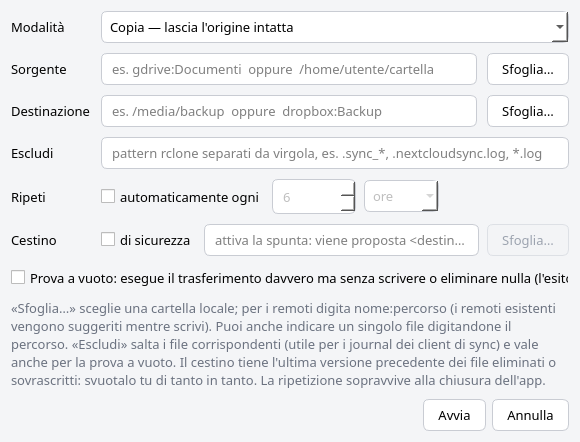
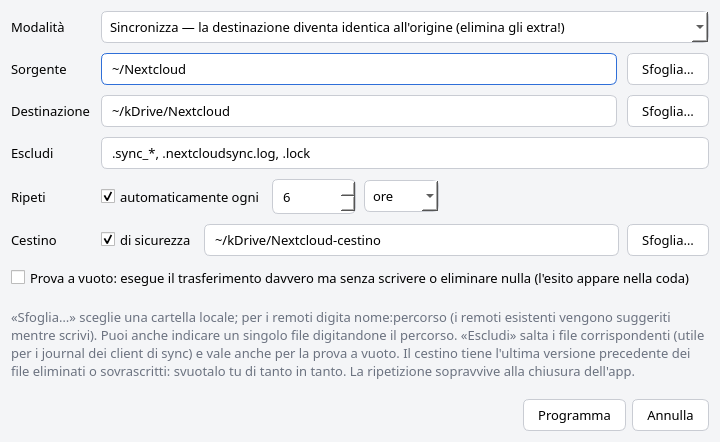
Screenshot aggiornati, email del maintainer e piccole correzioni UI
- Screenshot rigenerati con l'interfaccia attuale (menu File, pulsante
  Cestino, riga programmata, prova a vuoto) e aggiunto al README quello
  del dialog «Nuovo trasferimento».
- Maintainer predefinito del pacchetto: gradia@disroot.org.
- Versione di rclone nella barra di stato mostrata come «v1.75.2»
  invece di «vv1.75.2».
- Righe «Prova» in coda: ora mostrano modalità, sorgente e destinazione.
- Form «Nuovo remote»: le etichette del tipo precedente spariscono subito
  al cambio di tipo; niente più barra orizzontale per menu troppo larghi.
- Dialog «Nuovo trasferimento» più largo: i testi non vengono troncati.

diff --git a/clonaut/ui/remote_dialog.py b/clonaut/ui/remote_dialog.py
@@ -104,6 +104,8 @@ class RemoteDialog(QtWidgets.QDialog):
         self.scroll.setWidgetResizable(True)
         self.scroll.setFrameShape(QtWidgets.QFrame.Shape.NoFrame)
         self._form_host = QtWidgets.QWidget()
+        self._form_host.setObjectName("formHost")
+        self._form_host.setStyleSheet("#formHost { background: white; }")
         self._form_layout = QtWidgets.QFormLayout(self._form_host)
         self._form_layout.setFieldGrowthPolicy(
             QtWidgets.QFormLayout.FieldGrowthPolicy.AllNonFixedFieldsGrow)
@@ -156,6 +158,7 @@ class RemoteDialog(QtWidgets.QDialog):
         while self._form_layout.count():
             item = self._form_layout.takeAt(0)
             if widget := item.widget():
+                widget.hide()          # sparisce subito, non al prossimo giro di eventi
                 widget.deleteLater()
         self._fields.clear()
         self._adv_rows.clear()
@@ -222,6 +225,11 @@ class RemoteDialog(QtWidgets.QDialog):
         examples = [e for e in (opt.get("Examples") or []) if e.get("Value")]
         if examples:
             editor: QtWidgets.QWidget = QtWidgets.QComboBox()
+            # le descrizioni degli esempi sono lunghe: senza limite il form
+            # si allarga oltre la finestra (barra di scorrimento orizzontale)
+            editor.setSizeAdjustPolicy(
+                QtWidgets.QComboBox.SizeAdjustPolicy.AdjustToMinimumContentsLengthWithIcon)
+            editor.setMinimumContentsLength(24)
             editor.addItem("(predefinito)", "")
             for ex in examples:
                 help_txt = strip_html(str(ex.get("Help", ""))).split("\n")[0]

diff --git a/clonaut/ui/transfers_tab.py b/clonaut/ui/transfers_tab.py
@@ -161,7 +161,7 @@ class TransfersTab(QtWidgets.QWidget):
         """Prova a vuoto sul backend dedicato (--dry-run), con riga in coda."""
         self._dry_seq += 1
         key = f"dry-{self._dry_seq}"
-        self._new_dry_row(key, backup_dir)
+        self._new_dry_row(key, mode, src, dst, backup_dir)
         try:
             api = self.ctx.ensure_dry_backend()
         except Exception as exc:  # noqa: BLE001 — mostra l'errore sulla riga
@@ -178,10 +178,14 @@ class TransfersTab(QtWidgets.QWidget):
         """Prove a vuoto ancora in corso (da fermare all'uscita)."""
         return list(self._dry_workers.values())
 
-    def _new_dry_row(self, key: str, backup_dir: str | None = None) -> None:
+    def _new_dry_row(self, key: str, mode: str, src: str, dst: str,
+                     backup_dir: str | None = None) -> None:
         item = QtWidgets.QTreeWidgetItem()
         item.setText(0, "—")
-        item.setText(1, "Prova")
+        item.setText(1, f"Prova · {_MODE_LABEL.get(mode, mode)}")
+        for col, path in ((2, src), (3, dst)):
+            item.setText(col, path)
+            item.setToolTip(col, path)
         item.setText(4, "🧪 Prova in corso…")
         item.setForeground(4, _BLUE)
         item.setToolTip(4, "La prova è un trasferimento vero senza scritture: "

diff --git a/main.py b/main.py
@@ -48,7 +48,7 @@ def _build_context(args: argparse.Namespace) -> AppContext:
     """Crea il contesto: o aggancia un rcd esistente o ne avvia uno locale."""
     if args.url:
         api = RcloneApi(args.url, args.user, args.password)
-        version = api.ping().get("version", "?")
+        version = str(api.ping().get("version", "?")).lstrip("v")
         config_desc = "gestito dal rcd esterno"
         return AppContext(api=api, version=f"v{version}", config_desc=config_desc,
                           config_path=args.config)
@@ -68,7 +68,7 @@ def _build_context(args: argparse.Namespace) -> AppContext:
         tail = rcd.log_tail(15)
         raise RuntimeError(
             "rclone rcd non si è avviato.\n\nLog recente:\n" + tail)
-    version = api.ping().get("version", "?")
+    version = str(api.ping().get("version", "?")).lstrip("v")
     config_desc = args.config if args.config else "predefinito (~/.config/rclone/rclone.conf)"
     return AppContext(api=api, rcd=rcd, version=f"v{version}", config_desc=config_desc,
                       config_path=args.config)

diff --git a/clonaut/ui/transfer_dialog.py b/clonaut/ui/transfer_dialog.py
@@ -17,7 +17,7 @@ class TransferDialog(QtWidgets.QDialog):
         self.ctx = ctx
         self.tab = transfers_tab
         self.setWindowTitle("Nuovo trasferimento")
-        self.setMinimumWidth(580)
+        self.setMinimumWidth(720)
 
         layout = QtWidgets.QVBoxLayout(self)
         layout.setSpacing(10)

diff --git a/README.md b/README.md
@@ -37,6 +37,7 @@ pilota via HTTP con `requests`. Il backend è rclone stesso — la GUI è solo l
 ![Remote](docs/screenshot-remote.png)
 ![Trasferimenti](docs/screenshot-trasferimenti.png)
 ![Nuovo remote](docs/screenshot-nuovo-remote.png)
+![Nuovo trasferimento](docs/screenshot-nuovo-trasferimento.png)
 
 ## Esempio: tenere allineato Nextcloud → kDrive
 
